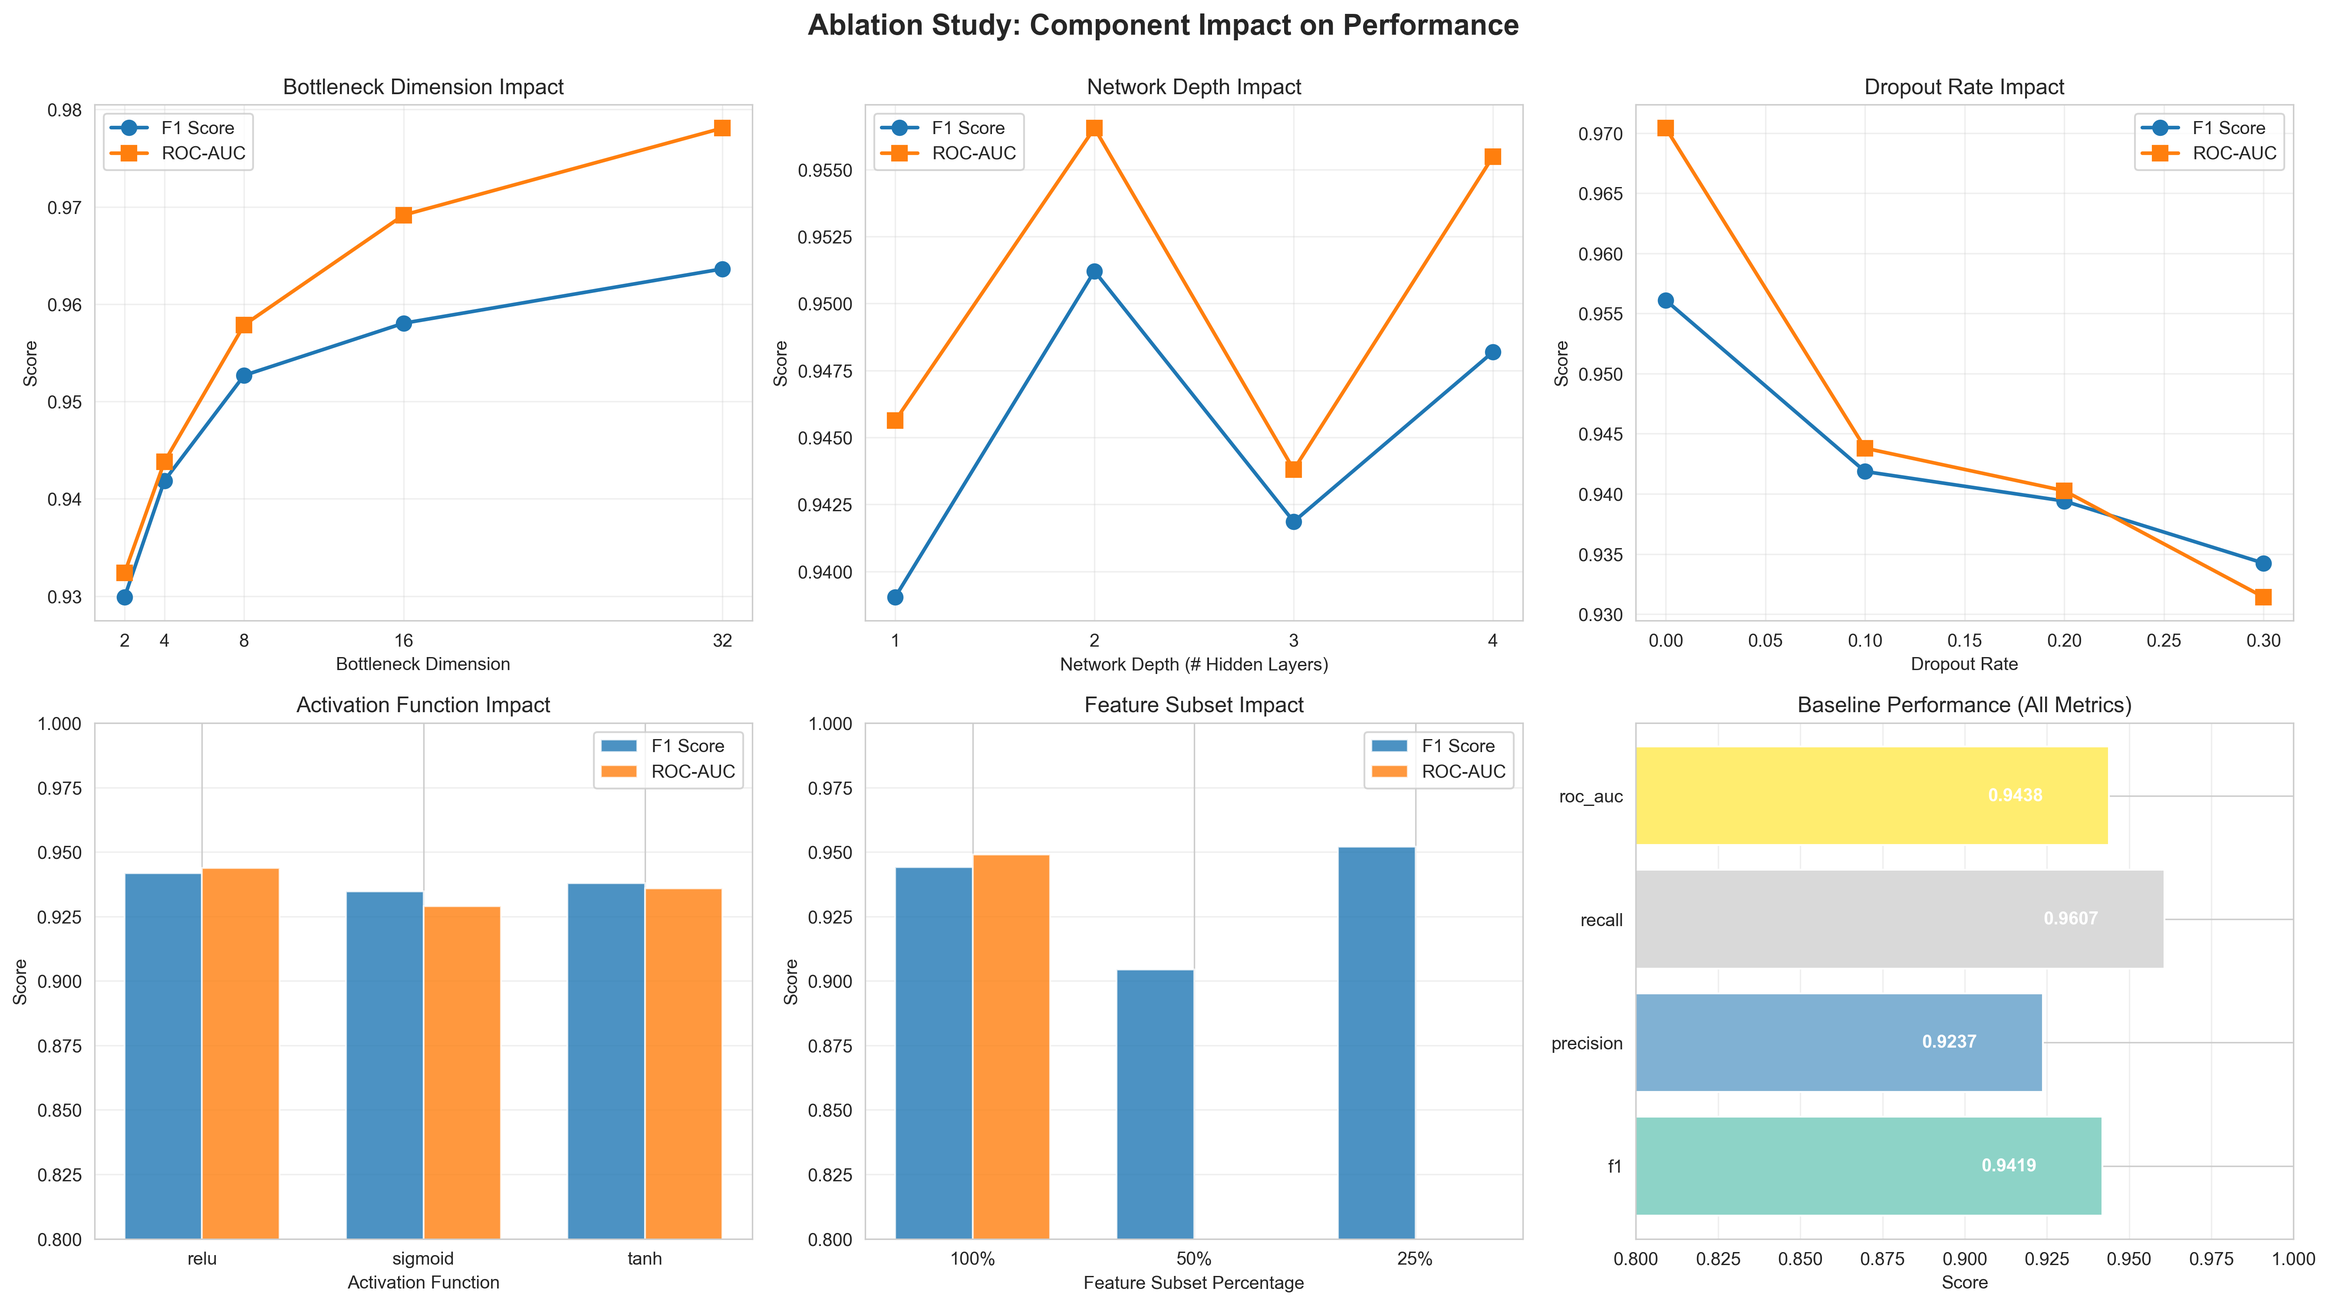
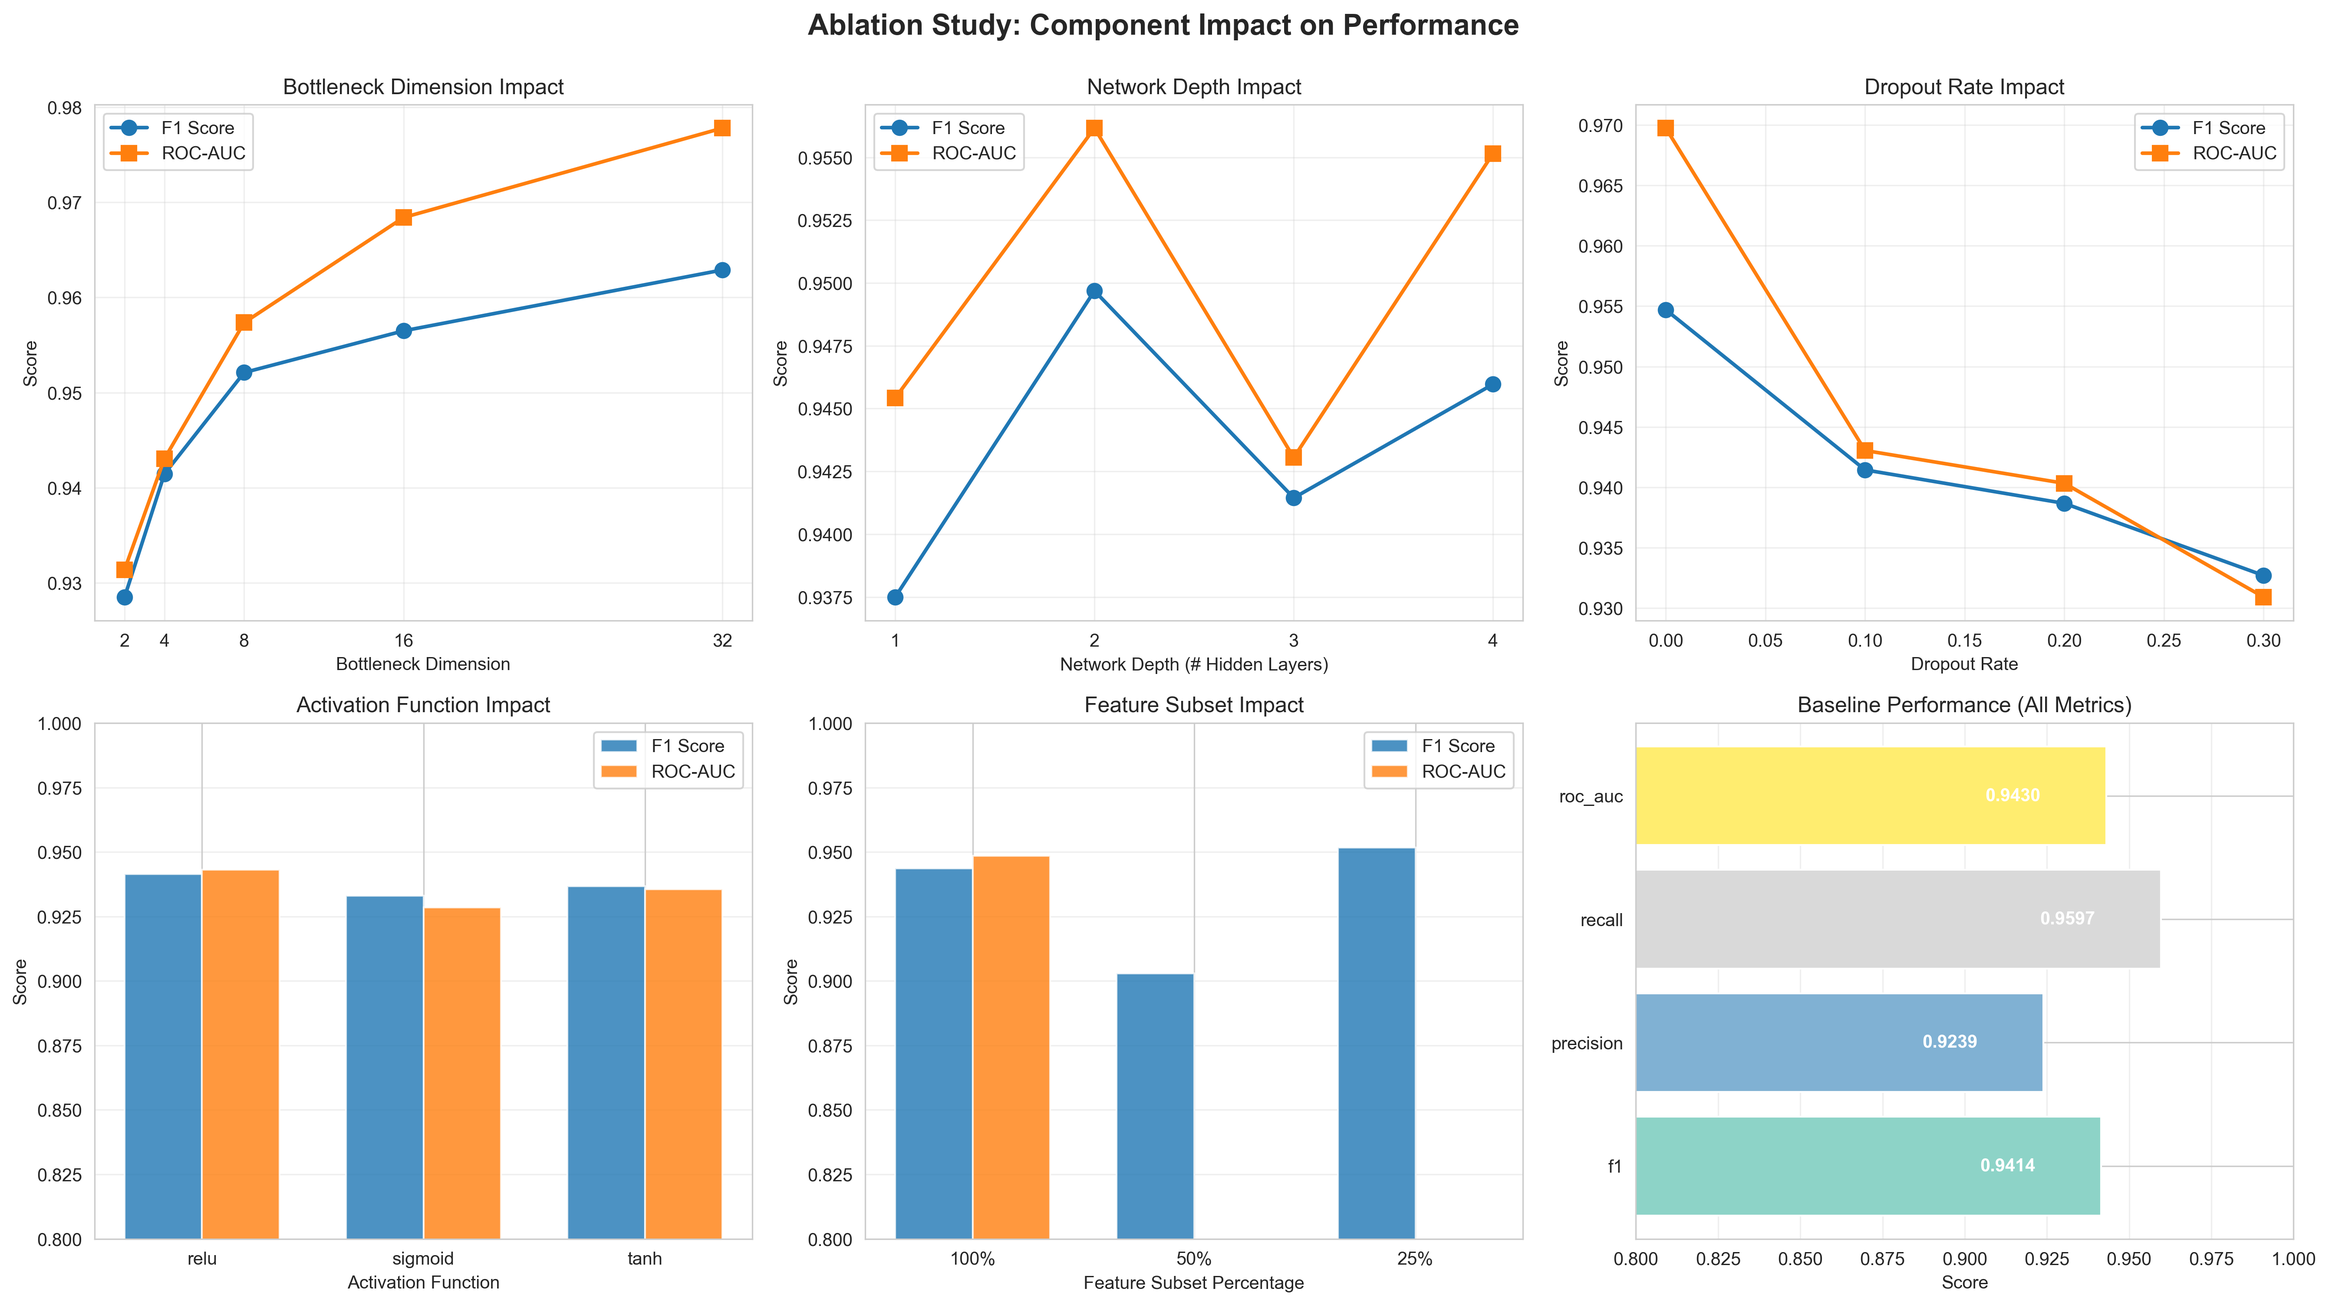
added ablation study fir batch size and epoch

diff --git a/scripts/ablation_study.py b/scripts/ablation_study.py
@@ -10,7 +10,12 @@ Components tested:
 3. Dropout rate: Regularization strength (0.0, 0.1, 0.2, 0.3)
 4. Activation function: Non-linearity type (relu, sigmoid, tanh)
 5. Feature subset: Percentage of features by variance (100%, 50%, 25%)
-6. Hyperparameters: Batch size & epochs combinations
+6. Batch size: Training mini-batch size (8, 16, 32)
+7. Epoch budget: Maximum training epochs (40, 80, 120)
+
+Threshold policy:
+- Tune threshold on a dedicated validation split
+- Report final metrics on a separate holdout split
 
 Baseline configuration:
 - Bottleneck: 4
@@ -22,13 +27,12 @@ Baseline configuration:
 """
 
 import os
-import sys
 import json
 import random
 import numpy as np
 import pandas as pd
 from pathlib import Path
-from typing import Tuple, List, Dict, Any
+from typing import Dict, Any
 from datetime import datetime
 
 # Set seeds FIRST
@@ -39,10 +43,10 @@ os.environ["TF_DETERMINISTIC_OPS"] = "1"
 import tensorflow as tf
 from tensorflow import keras
 from tensorflow.keras import layers
-from sklearn.preprocessing import StandardScaler
+from sklearn.model_selection import train_test_split
 from sklearn.metrics import (
     accuracy_score, f1_score, precision_score, recall_score,
-    confusion_matrix, roc_auc_score, roc_curve
+    confusion_matrix, roc_auc_score
 )
 
 # Set seeds after imports
@@ -121,6 +125,8 @@ def build_autoencoder_variable_depth(
 
 def train_variant(
     X_train: np.ndarray,
+    X_threshold: np.ndarray,
+    y_threshold: np.ndarray,
     X_test: np.ndarray,
     y_test: np.ndarray,
     bottleneck_dim: int = 4,
@@ -129,20 +135,24 @@ def train_variant(
     activation: str = "relu",
     batch_size: int = 16,
     epochs: int = 80,
+    threshold_metric: str = "f1",
     random_state: int = 41,
 ) -> Dict[str, Any]:
     """Train a variant and evaluate it.
     
     Args:
         X_train: Training data (normal samples only)
-        X_test: Test data (normal + abnormal)
-        y_test: Test labels (1=normal, -1=abnormal)
+        X_threshold: Threshold-tuning split (normal + abnormal)
+        y_threshold: Labels for threshold-tuning split
+        X_test: Holdout test split (normal + abnormal)
+        y_test: Labels for holdout test split (1=normal, -1=abnormal)
         bottleneck_dim: Compression dimension
         depth: Network depth
         dropout_rate: Dropout probability
         activation: Activation function
         batch_size: Batch size for training
         epochs: Maximum epochs
+        threshold_metric: Metric used to optimize threshold on threshold split
     
     Returns:
         Dictionary with metrics and configuration
@@ -181,37 +191,38 @@ def train_variant(
         verbose=0
     )
     
-    # Find initial threshold using training data
-    X_train_recon = model.predict(X_train, verbose=0)
-    train_errors = np.mean((X_train - X_train_recon) ** 2, axis=1)
-    
-    # Initial threshold: mean + 2*std (works better with contamination=0.0)
-    threshold_initial = float(train_errors.mean() + 2.0 * train_errors.std())
-    
-    # Optimize threshold on test set using same method as original pipeline
+    # Optimize threshold on dedicated threshold-tuning split
+    threshold, threshold_score = optimize_threshold(
+        model, X_threshold, y_threshold, metric=threshold_metric
+    )
+
+    # Evaluate only on holdout test split
     X_test_recon = model.predict(X_test, verbose=0)
     test_errors = np.mean((X_test - X_test_recon) ** 2, axis=1)
-
-    # Use the same optimize_threshold function from autoencoder module
-    optimal_threshold, _ = optimize_threshold(
-        model, X_test, y_test, metric="f1"
-    )
-    threshold = optimal_threshold
     
     # Final predictions with optimized threshold
     predictions = np.where(test_errors > threshold, -1, 1)
     
     # Compute metrics
+    y_test_binary = (y_test == -1).astype(int)
+    if len(np.unique(y_test_binary)) > 1:
+        roc_auc = float(roc_auc_score(y_test_binary, test_errors))
+    else:
+        roc_auc = 0.5
+
     metrics = {
         "accuracy": float(accuracy_score(y_test, predictions)),
-        "f1": float(f1_score(y_test, predictions, pos_label=-1)),
-        "precision": float(precision_score(y_test, predictions, pos_label=-1)),
-        "recall": float(recall_score(y_test, predictions, pos_label=-1)),
-        "roc_auc": float(roc_auc_score(y_test, -test_errors)),  # Higher error = anomaly
+        "f1": float(f1_score(y_test, predictions, pos_label=-1, zero_division=0)),
+        "precision": float(precision_score(y_test, predictions, pos_label=-1, zero_division=0)),
+        "recall": float(recall_score(y_test, predictions, pos_label=-1, zero_division=0)),
+        "roc_auc": roc_auc,
+        "threshold": float(threshold),
+        "threshold_metric": threshold_metric,
+        "threshold_metric_score": float(threshold_score),
     }
     
     # Confusion matrix
-    tn, fp, fn, tp = confusion_matrix(y_test, predictions).ravel()
+    tn, fp, fn, tp = confusion_matrix(y_test, predictions, labels=[1, -1]).ravel()
     metrics.update({
         "tp": int(tp),
         "fp": int(fp),
@@ -254,7 +265,7 @@ def run_ablation_study(
     print("█" * 80)
     
     # ==================== LOAD & PREPROCESS DATA ====================
-    print("\n[1/7] Loading and preprocessing data...")
+    print("\n[1/10] Loading and preprocessing data...")
     
     data_path = Path(data_dir)
     loader = EducationalDataLoader(data_dir=str(data_path))
@@ -267,7 +278,7 @@ def run_ablation_study(
     profiles = preprocessor.create_student_profiles(merged_df)
     
     # Create labels from real outcomes
-    y, label_info = preprocessor.create_anomaly_labels(
+    y, _ = preprocessor.create_anomaly_labels(
         profiles,
         normal_labels=config.NORMAL_OUTCOME_LABELS,
         abnormal_labels=config.ABNORMAL_OUTCOME_LABELS
@@ -277,7 +288,7 @@ def run_ablation_study(
     X, feature_names = preprocessor.prepare_for_autoencoder(profiles)
     
     # Split data using EXACT same method as original pipeline
-    X_train, X_test, y_train, y_test, _, _ = preprocessor.split_normal_abnormal(
+    X_train, X_test, _, y_test, _, _ = preprocessor.split_normal_abnormal(
         X, y,
         normal_train_fraction=config.NORMAL_TRAIN_FRACTION,
         random_state=config.SEED
@@ -299,11 +310,44 @@ def run_ablation_study(
     print(f"  ✓ Test samples: {len(X_test)} ({np.sum(y_test==1)} normal, {np.sum(y_test==-1)} abnormal)")
     print(f"  ✓ Features: {X_train.shape[1]}")
     
+    # Dedicated split for threshold tuning vs final evaluation
+    print("\n[2/10] Splitting threshold-tuning and holdout evaluation sets...")
+    threshold_tune_fraction = 0.30
+    unique_labels, label_counts = np.unique(y_test, return_counts=True)
+    can_stratify = len(unique_labels) > 1 and np.all(label_counts >= 2)
+
+    try:
+        X_threshold, X_eval, y_threshold, y_eval = train_test_split(
+            X_test,
+            y_test,
+            test_size=1.0 - threshold_tune_fraction,
+            random_state=config.SEED,
+            stratify=y_test if can_stratify else None
+        )
+    except ValueError:
+        # Fallback when stratified split is not feasible with small class counts
+        X_threshold, X_eval, y_threshold, y_eval = train_test_split(
+            X_test,
+            y_test,
+            test_size=1.0 - threshold_tune_fraction,
+            random_state=config.SEED,
+            stratify=None
+        )
+
+    print(
+        f"  [OK] Threshold-tuning set: {len(X_threshold)} "
+        f"({np.sum(y_threshold==1)} normal, {np.sum(y_threshold==-1)} abnormal)"
+    )
+    print(
+        f"  [OK] Holdout evaluation set: {len(X_eval)} "
+        f"({np.sum(y_eval==1)} normal, {np.sum(y_eval==-1)} abnormal)"
+    )
+
     # ==================== BASELINE ====================
-    print("\n[2/7] Training baseline model (bottleneck=4, depth=3, dropout=0.1, relu)...")
+    print("\n[3/10] Training baseline model (bottleneck=4, depth=3, dropout=0.1, relu)...")
     
     baseline_results = train_variant(
-        X_train, X_test, y_test,
+        X_train, X_threshold, y_threshold, X_eval, y_eval,
         bottleneck_dim=4,
         depth=3,
         dropout_rate=0.1,
@@ -329,19 +373,26 @@ def run_ablation_study(
         "data_summary": {
             "n_features": int(X_train.shape[1]),
             "n_train": int(len(X_train)),
-            "n_test": int(len(X_test)),
-            "n_abnormal": int(np.sum(y_test == -1)),
-        }
+            "n_threshold_tune": int(len(X_threshold)),
+            "n_threshold_tune_abnormal": int(np.sum(y_threshold == -1)),
+            "n_eval": int(len(X_eval)),
+            "n_eval_abnormal": int(np.sum(y_eval == -1)),
+        },
+        "study_config": {
+            "threshold_tune_fraction": threshold_tune_fraction,
+            "threshold_metric": "f1",
+            "random_state": int(config.SEED),
+        },
     }
     
     # ==================== TEST BOTTLENECK DIMENSION ====================
-    print("\n[3/7] Testing bottleneck dimensions [2, 4, 8, 16, 32]...")
+    print("\n[4/10] Testing bottleneck dimensions [2, 4, 8, 16, 32]...")
     
     bottleneck_results = {}
     for bottleneck_dim in [2, 4, 8, 16, 32]:
         print(f"  Testing bottleneck_dim={bottleneck_dim}...", end=" ")
         results = train_variant(
-            X_train, X_test, y_test,
+            X_train, X_threshold, y_threshold, X_eval, y_eval,
             bottleneck_dim=bottleneck_dim,
             depth=3,
             dropout_rate=0.1,
@@ -361,13 +412,13 @@ def run_ablation_study(
     all_results["variations"]["bottleneck_dimension"] = bottleneck_results
     
     # ==================== TEST NETWORK DEPTH ====================
-    print("\n[4/7] Testing network depths [1, 2, 3, 4]...")
+    print("\n[5/10] Testing network depths [1, 2, 3, 4]...")
     
     depth_results = {}
     for depth in [1, 2, 3, 4]:
         print(f"  Testing depth={depth}...", end=" ")
         results = train_variant(
-            X_train, X_test, y_test,
+            X_train, X_threshold, y_threshold, X_eval, y_eval,
             bottleneck_dim=4,
             depth=depth,
             dropout_rate=0.1,
@@ -387,13 +438,13 @@ def run_ablation_study(
     all_results["variations"]["network_depth"] = depth_results
     
     # ==================== TEST DROPOUT RATE ====================
-    print("\n[5/7] Testing dropout rates [0.0, 0.1, 0.2, 0.3]...")
+    print("\n[6/10] Testing dropout rates [0.0, 0.1, 0.2, 0.3]...")
     
     dropout_results = {}
     for dropout_rate in [0.0, 0.1, 0.2, 0.3]:
         print(f"  Testing dropout_rate={dropout_rate}...", end=" ")
         results = train_variant(
-            X_train, X_test, y_test,
+            X_train, X_threshold, y_threshold, X_eval, y_eval,
             bottleneck_dim=4,
             depth=3,
             dropout_rate=dropout_rate,
@@ -413,13 +464,13 @@ def run_ablation_study(
     all_results["variations"]["dropout_rate"] = dropout_results
     
     # ==================== TEST ACTIVATION FUNCTIONS ====================
-    print("\n[6/7] Testing activation functions [relu, sigmoid, tanh]...")
+    print("\n[7/10] Testing activation functions [relu, sigmoid, tanh]...")
     
     activation_results = {}
     for activation in ["relu", "sigmoid", "tanh"]:
         print(f"  Testing activation={activation}...", end=" ")
         results = train_variant(
-            X_train, X_test, y_test,
+            X_train, X_threshold, y_threshold, X_eval, y_eval,
             bottleneck_dim=4,
             depth=3,
             dropout_rate=0.1,
@@ -439,7 +490,7 @@ def run_ablation_study(
     all_results["variations"]["activation_function"] = activation_results
     
     # ==================== TEST FEATURE SUBSETS ====================
-    print("\n[7/7] Testing feature subsets [100%, 50%, 25%]...")
+    print("\n[8/10] Testing feature subsets [100%, 50%, 25%]...")
     
     feature_results = {}
     for pct in [1.0, 0.5, 0.25]:
@@ -451,10 +502,11 @@ def run_ablation_study(
         feature_indices = np.argsort(feature_var)[-n_features:]
         
         X_train_subset = X_train[:, feature_indices]
-        X_test_subset = X_test[:, feature_indices]
+        X_threshold_subset = X_threshold[:, feature_indices]
+        X_eval_subset = X_eval[:, feature_indices]
         
         results = train_variant(
-            X_train_subset, X_test_subset, y_test,
+            X_train_subset, X_threshold_subset, y_threshold, X_eval_subset, y_eval,
             bottleneck_dim=4,
             depth=3,
             dropout_rate=0.1,
@@ -474,6 +526,62 @@ def run_ablation_study(
         print(f"F1={results['f1']:.4f}")
     
     all_results["variations"]["feature_subset"] = feature_results
+
+    # ==================== TEST BATCH SIZE ====================
+    print("\n[9/10] Testing batch sizes [8, 16, 32]...")
+
+    batch_size_results = {}
+    for batch_size in [8, 16, 32]:
+        print(f"  Testing batch_size={batch_size}...", end=" ")
+        results = train_variant(
+            X_train, X_threshold, y_threshold, X_eval, y_eval,
+            bottleneck_dim=4,
+            depth=3,
+            dropout_rate=0.1,
+            activation="relu",
+            batch_size=batch_size,
+            epochs=80
+        )
+        results["config"] = {
+            "bottleneck_dim": 4,
+            "depth": 3,
+            "dropout_rate": 0.1,
+            "activation": "relu",
+            "batch_size": batch_size,
+            "epochs": 80,
+        }
+        batch_size_results[f"batch_size_{batch_size}"] = results
+        print(f"F1={results['f1']:.4f}")
+
+    all_results["variations"]["batch_size"] = batch_size_results
+
+    # ==================== TEST EPOCH BUDGET ====================
+    print("\n[10/10] Testing epoch budgets [40, 80, 120]...")
+
+    epoch_results = {}
+    for epochs in [40, 80, 120]:
+        print(f"  Testing epochs={epochs}...", end=" ")
+        results = train_variant(
+            X_train, X_threshold, y_threshold, X_eval, y_eval,
+            bottleneck_dim=4,
+            depth=3,
+            dropout_rate=0.1,
+            activation="relu",
+            batch_size=16,
+            epochs=epochs
+        )
+        results["config"] = {
+            "bottleneck_dim": 4,
+            "depth": 3,
+            "dropout_rate": 0.1,
+            "activation": "relu",
+            "batch_size": 16,
+            "epochs": epochs,
+        }
+        epoch_results[f"epochs_{epochs}"] = results
+        print(f"F1={results['f1']:.4f}")
+
+    all_results["variations"]["epochs"] = epoch_results
     
     # ==================== SAVE RESULTS ====================
     print("\n" + "█" * 80)

diff --git a/scripts/analyze_ablation.py b/scripts/analyze_ablation.py
@@ -222,9 +222,11 @@ def generate_analysis_report(results: Dict[str, Any], df: pd.DataFrame,
     data_summary = results.get("data_summary", {})
     report.append(f"  Total features: {data_summary.get('n_features', 'N/A')}")
     report.append(f"  Training samples: {data_summary.get('n_train', 'N/A')} (normal only)")
-    report.append(f"  Validation samples: {data_summary.get('n_val', 'N/A')} (normal only)")
-    report.append(f"  Test samples: {data_summary.get('n_test', 'N/A')}")
-    report.append(f"  Abnormal test samples: {data_summary.get('n_abnormal', 'N/A')}\n")
+    report.append(f"  Threshold-tuning samples: {data_summary.get('n_threshold_tune', data_summary.get('n_val', 'N/A'))}")
+    report.append(f"  Abnormal threshold-tuning samples: {data_summary.get('n_threshold_tune_abnormal', 'N/A')}")
+    report.append(f"  Holdout evaluation samples: {data_summary.get('n_eval', data_summary.get('n_test', 'N/A'))}")
+    report.append(f"  Abnormal holdout samples: {data_summary.get('n_eval_abnormal', data_summary.get('n_abnormal', 'N/A'))}\n")
+
     
     # Baseline Performance
     report.append("BASELINE PERFORMANCE")
